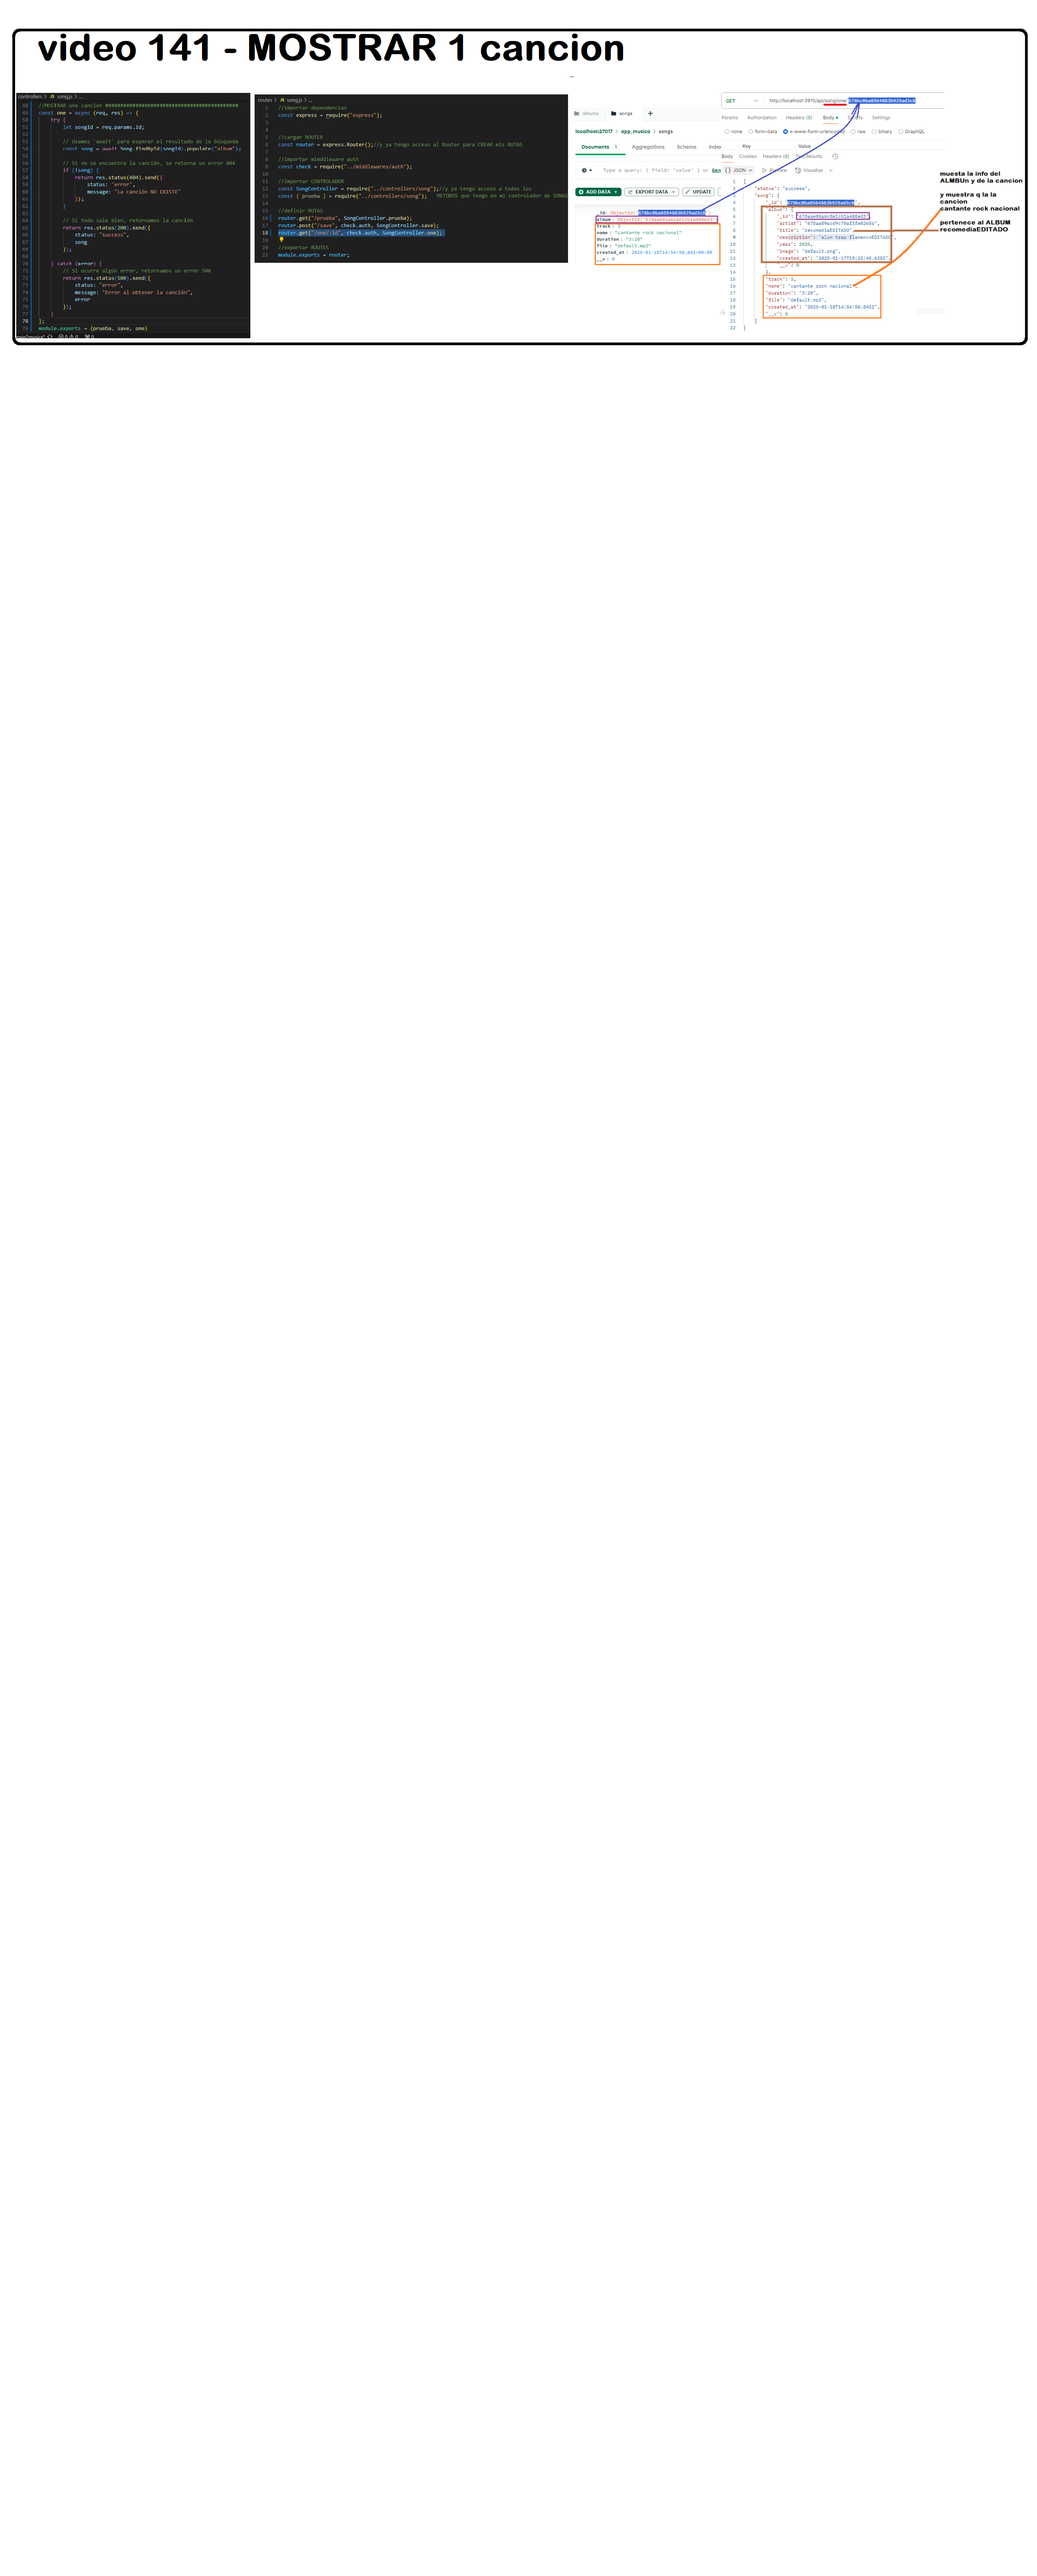
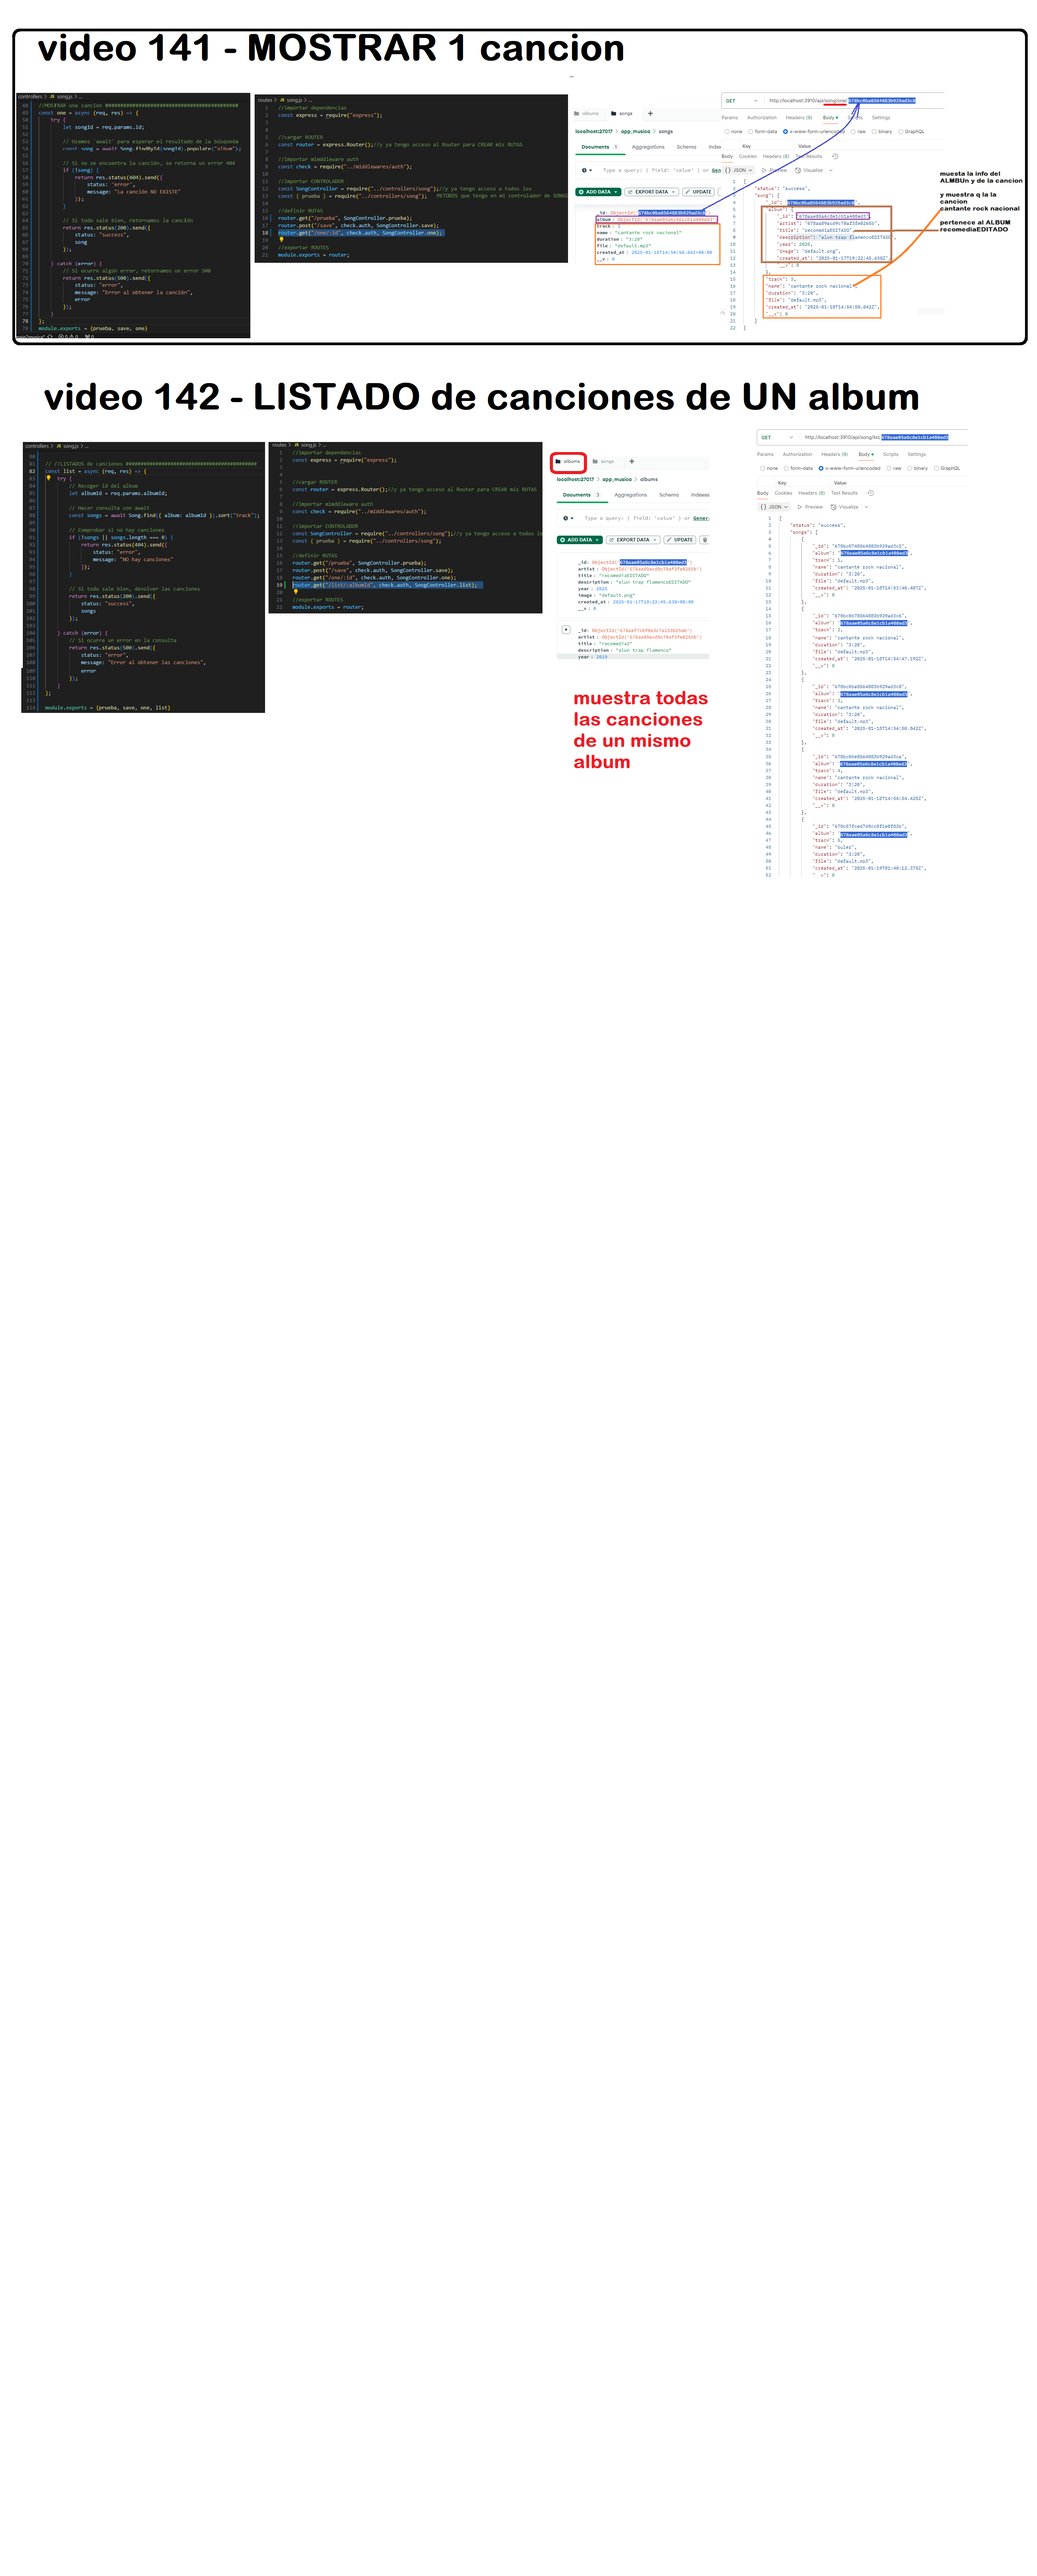
35° V.142 LISTADOS de canciones de UN album

Changed region(s): [[0.0, 0.125, 0.6813, 0.3125], [0.7743, 0.125, 0.8981, 0.3438], [0.7123, 0.125, 0.7743, 0.1562]]

diff --git a/controllers/song.js b/controllers/song.js
@@ -76,4 +76,39 @@ const one = async (req, res) => {
         });
     }
 };
-module.exports = {prueba, save, one}
+
+
+// //LISTADOS de canciones ############################################
+const list = async (req, res) => {
+    try {
+        // Recoger id del album
+        let albumId = req.params.albumId;
+
+        // Hacer consulta con await
+        const songs = await Song.find({ album: albumId }).sort("track");
+
+        // Comprobar si no hay canciones
+        if (!songs || songs.length === 0) {
+            return res.status(404).send({
+                status: "error",
+                message: "NO hay canciones"
+            });
+        }
+
+        // Si todo sale bien, devolver las canciones
+        return res.status(200).send({
+            status: "success",
+            songs
+        });
+
+    } catch (error) {
+        // Si ocurre un error en la consulta
+        return res.status(500).send({
+            status: "error",
+            message: "Error al obtener las canciones",
+            error
+        });
+    }
+};
+
+module.exports = {prueba, save, one, list}

diff --git a/routes/song.js b/routes/song.js
@@ -16,6 +16,7 @@ const { prueba } = require("../controllers/song");
 router.get("/prueba", SongController.prueba);
 router.post("/save", check.auth, SongController.save);  
 router.get("/one/:id", check.auth, SongController.one);  
+router.get("/list/:albumId", check.auth, SongController.list);  
 
 //exportar ROUTES
 module.exports = router;
